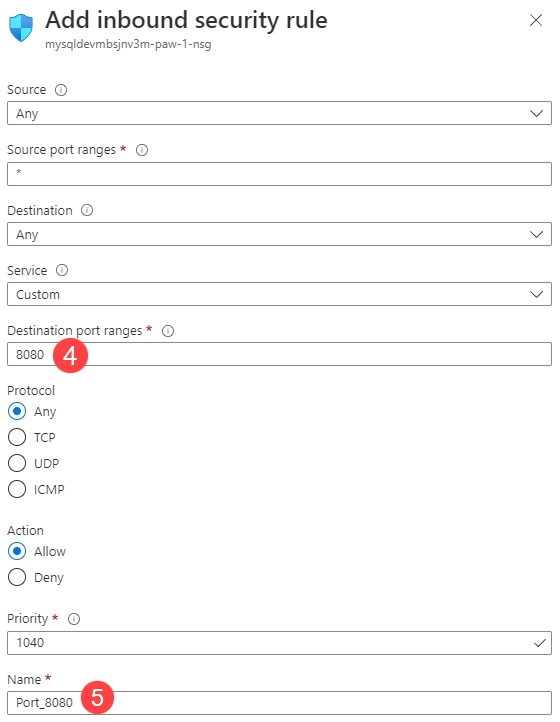
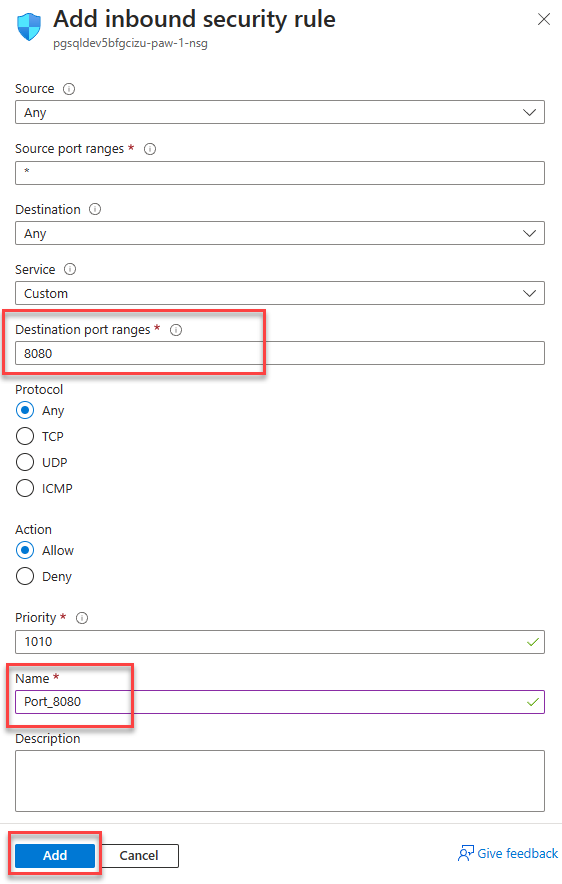
Completed testing/updates to 02-01-CloudDeploy-Vm

diff --git a/artifacts/02-01-CloudDeploy-Vm/README.md b/artifacts/02-01-CloudDeploy-Vm/README.md
@@ -18,8 +18,11 @@ The app is running in an Azure VM and the App needs to be exposed to the interne
 ## Open Port 8080
 
 1. Navigate to the **Paw-1** machine, select it
-2. Under **Settings**, select **Networking**
-3. Select **Add inbound port rule**
+2. Under **Networking**, select **Network settings**
+3. In the **Rules** section, expand the **Create port rule** button and select the **Inbound port rule** option
+
+   ![This image demonstrates the Create port rule button.](./media/create-port-rule.png "Create port rule")
+
 4. For the destination port, type **8080**
 5. For the name, type **Port_8080**
 6. Select **Add**
@@ -35,16 +38,19 @@ The app is running in an Azure VM and the App needs to be exposed to the interne
    New-NetFirewallRule -DisplayName 'Port 8080' -Direction Inbound -Action Allow -Protocol TCP -LocalPort 8080
    ```
 
-3. The application should load
-4. Open a browser to the virtual machine ip address (ex `http:\\IP_ADDRESS:8080`)
-5. The results should be displayed, but some files will not be download
+3. Open a browser to the virtual machine ip address (ex `http:\\IP_ADDRESS:8080`)
+4. The results should be displayed, but some files will not be download
+
+   ![This image demonstrates the application running in the browser.](./media/app-running-incomplete-render.png "Application running")
 
 ## Edit .env file
 
 1. Open the `c:\labfiles\microsoft-postgres-developer-guide\artifacts\sample-php-app\.env` file
 2. Edit the `APP_URL` to the `IP_ADDRESS` of the virtual machine and remove the port `8080`.  
-3. Change the http protocol to `https` in order to properly load the application over SSL.
-4. Save the file, refresh the browser window
+3. Change the http protocol to `https` in order to properly load the application over SSL, example: https://IP_ADDRESS
+4. Save the file.
+
+   ![This image demonstrates the .env file.](./media/env-file.png ".env file")
 
 ## Enable Port 443
 
@@ -56,12 +62,15 @@ As part of any secured web application, SSL/TLS should be enabled.
     New-SelfSignedCertificate -FriendlyName ContosoNow -DnsName ContosoNow -CertStoreLocation Cert:\LocalMachine\My -KeyUsage DigitalSignature
     ```
 
-2. Set the certificate on the site:
+2. See the certificate on the site:
    - Open Internet Information Services (IIS) Manager
    - Select the server node
    - Select **Server certificates**
 
       ![This image demonstrates the Server Certificates tab in IIS Manager.](./media/server-certificates-iis-manager.png "Server Certificates in IIS Manager")
+   - Locate **ContosoNow** in the list
+
+      ![This image demonstrates the ContosoNow certificate in the list.](./media/contosonow-certificate.png "ContosoNow certificate")
 
 3. Setup SSL
    - Expand the **Sites** node
@@ -77,11 +86,16 @@ As part of any secured web application, SSL/TLS should be enabled.
 ## Open Port 443
 
 1. In the Azure Portal, navigate to the **Paw-1** machine, select it
-2. Under **Settings**, select **Networking**
-3. Select **Add inbound port rule**
+2. Under **Networking**, select **Network settings**
+3. In the **Rules** section, expand the **Create port rule** button and select the **Inbound port rule** option
+
+   ![This image demonstrates the Create port rule button.](./media/create-port-rule.png "Create port rule")
+
 4. For the destination port, type **443**
 5. For the name, type **Port_443**
 6. Select **Add**
+
+   ![This image demonstrates the added inbound security rule.](./media/nsg-rule-443.png "New inbound security rule")
 
 ## Test the Application #3
 
@@ -92,8 +106,11 @@ As part of any secured web application, SSL/TLS should be enabled.
    New-NetFirewallRule -DisplayName 'Port 443' -Direction Inbound -Action Allow -Protocol TCP -LocalPort 443
    ```
 
-3. Select the **Advanced** button
-4. Select **Proceed to IP_ADDRESS (unsafe)**
-5. The application should load
-6. Open a browser to the virtual machine ip address (ex `https:\\IP_ADDRESS:443`)
-7. The results should display
+3. In IIS restart the **contosostore** web site
+4. Select the **Advanced** button
+5. Select **Proceed to IP_ADDRESS (unsafe)**
+6. The application should load
+7. Open a browser to the virtual machine ip address (ex `https:\\IP_ADDRESS:443`)
+8. The results should display
+
+   ![This image demonstrates the application running in the browser.](./media/app-running.png "Application running")
